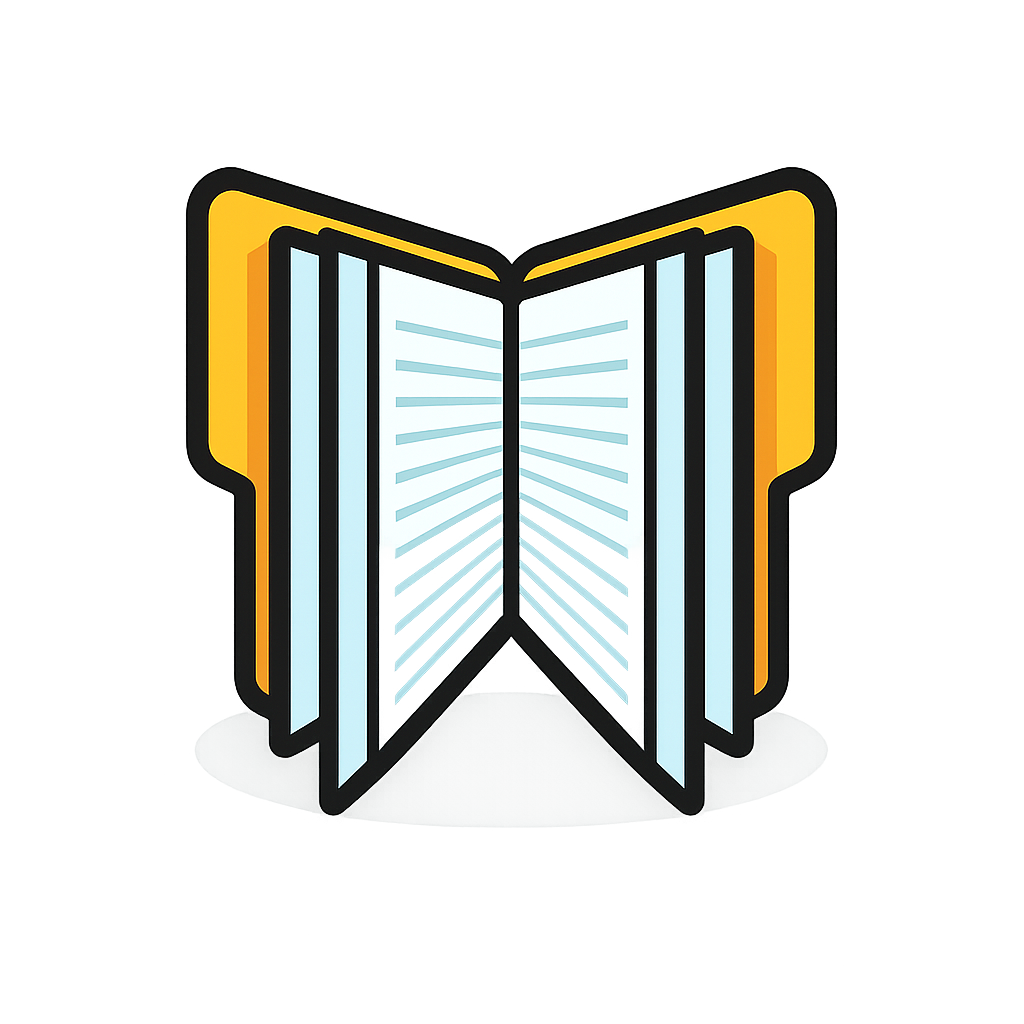
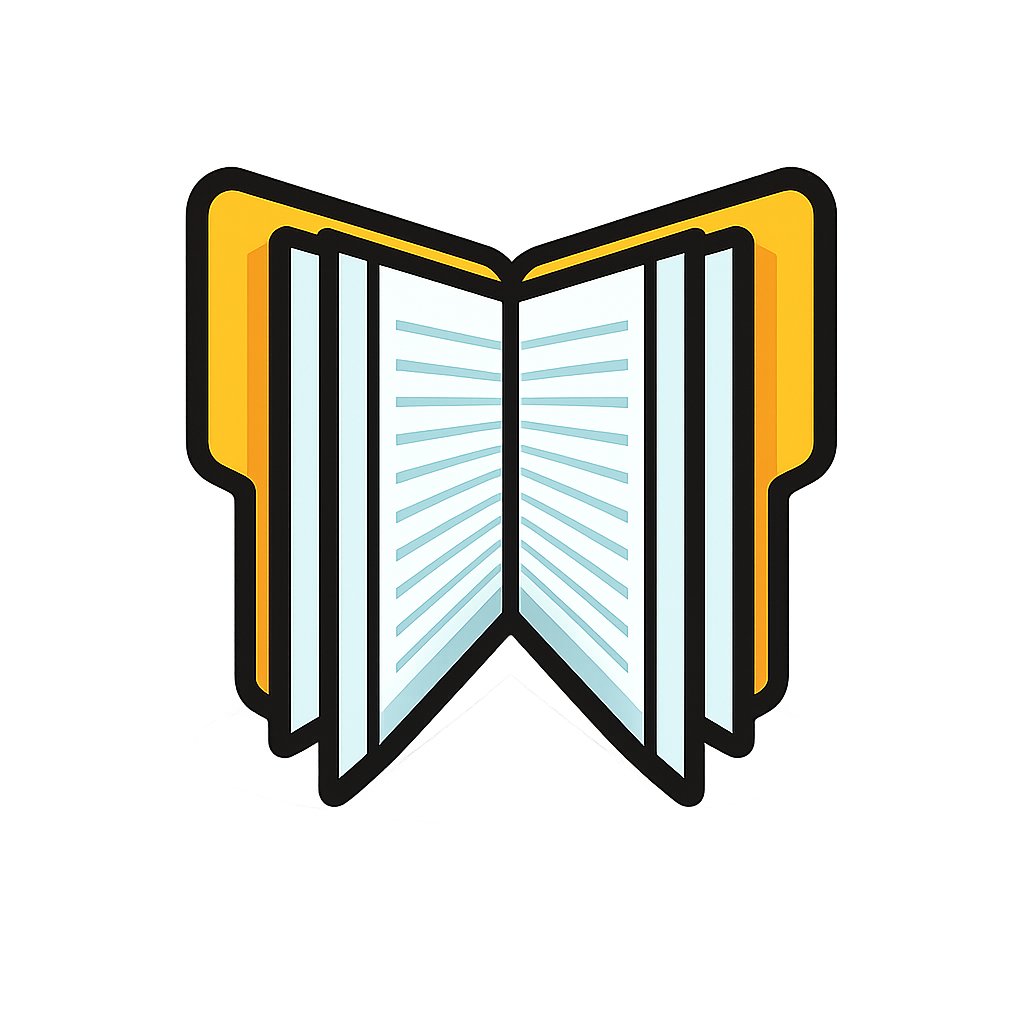
updated the code..

diff --git a/lib/core/utils/text_sanitizer.dart b/lib/core/utils/text_sanitizer.dart
@@ -1,0 +1,45 @@
+class TextSanitizer {
+  static const _map = <int, String>{
+    0x2013: '-',    // – en dash
+    0x2014: '--',   // — em dash
+    0x2018: "'",    // ' left single quote
+    0x2019: "'",    // ' right single quote
+    0x201C: '"',    // " left double quote
+    0x201D: '"',    // " right double quote
+    0x2022: '*',    // • bullet
+    0x2190: '<-',   // ← left arrow
+    0x2192: '->',   // → right arrow
+    0x2194: '<->',  // ↔ left-right arrow
+    0x21D2: '=>',   // ⇒ right double arrow
+    0x2248: '~=',   // ≈ almost equal
+    0x2260: '!=',   // ≠ not equal
+    0x2500: '-',    // ─ box draw horizontal
+    0x2502: '|',    // │ box draw vertical
+    0x250C: '+',    // ┌ box draw down-right
+    0x2510: '+',    // ┐ box draw down-left
+    0x2514: '+',    // └ box draw up-right
+    0x2518: '+',    // ┘ box draw up-left
+    0x251C: '+',    // ├ box draw vertical-right
+    0x2524: '+',    // ┤ box draw vertical-left
+    0x252C: '+',    // ┬ box draw down-horizontal
+    0x2534: '+',    // ┴ box draw up-horizontal
+    0x253C: '+',    // ┼ box draw cross
+    0x2550: '=',    // ═ box draw double horizontal
+    0x2551: '|',    // ║ box draw double vertical
+    0x2588: '#',    // █ full block
+    0x25A0: '#',    // ■ black square
+    0x25B6: '>',    // ▶ play
+    0x2713: 'v',    // ✓ check
+    0x2714: 'V',    // ✔ heavy check
+    0x2716: 'x',    // ✖ heavy multiply
+    0x2717: 'X',    // ✗ ballot x
+  };
+
+  static String sanitize(String input) {
+    final buf = StringBuffer();
+    for (final rune in input.runes) {
+      buf.write(_map[rune] ?? String.fromCharCode(rune));
+    }
+    return buf.toString();
+  }
+}

diff --git a/lib/screens/settings/settings_screen.dart b/lib/screens/settings/settings_screen.dart
@@ -5,7 +5,6 @@ import '../../core/security/auth_service.dart';
 import '../../core/security/secure_storage_service.dart';
 import '../../app.dart';
 
-final themeModeProvider = StateProvider<ThemeMode>((ref) => ThemeMode.system);
 final biometricEnabledProvider = StateProvider<bool>((ref) => true);
 
 class SettingsScreen extends ConsumerStatefulWidget {
@@ -101,12 +100,15 @@ class _SettingsScreenState extends ConsumerState<SettingsScreen> {
           _buildSectionHeader('Appearance', Icons.palette_outlined, scheme),
           Card(
             child: Column(
+              crossAxisAlignment: CrossAxisAlignment.start,
               children: [
-                ListTile(
-                  leading: const Icon(Icons.brightness_6),
-                  title: const Text('Theme'),
-                  subtitle: Text(_themeModeName(themeMode)),
-                  trailing: SegmentedButton<ThemeMode>(
+                const ListTile(
+                  leading: Icon(Icons.brightness_6),
+                  title: Text('Theme'),
+                ),
+                Padding(
+                  padding: const EdgeInsets.fromLTRB(16, 0, 16, 16),
+                  child: SegmentedButton<ThemeMode>(
                     segments: const [
                       ButtonSegment(value: ThemeMode.system, label: Text('System')),
                       ButtonSegment(value: ThemeMode.light, label: Text('Light')),
@@ -157,17 +159,17 @@ class _SettingsScreenState extends ConsumerState<SettingsScreen> {
           ),
           const SizedBox(height: 24),
           _buildSectionHeader('About', Icons.info_outline, scheme),
-          Card(
+          const Card(
             child: Column(
               crossAxisAlignment: CrossAxisAlignment.start,
               children: [
-                const ListTile(
+                ListTile(
                   leading: Icon(Icons.info),
                   title: Text('MD to PDF'),
                   subtitle: Text('Version 1.0.0'),
                 ),
-                const Divider(height: 1, indent: 16, endIndent: 16),
-                const ListTile(
+                Divider(height: 1, indent: 16, endIndent: 16),
+                ListTile(
                   leading: Icon(Icons.description),
                   title: Text('Description'),
                   subtitle: Text(
@@ -201,11 +203,4 @@ class _SettingsScreenState extends ConsumerState<SettingsScreen> {
     );
   }
 
-  String _themeModeName(ThemeMode mode) {
-    switch (mode) {
-      case ThemeMode.system: return 'System';
-      case ThemeMode.light: return 'Light';
-      case ThemeMode.dark: return 'Dark';
-    }
-  }
 }

diff --git a/lib/core/utils/markdown_converter.dart b/lib/core/utils/markdown_converter.dart
@@ -1,4 +1,6 @@
 import 'dart:io';
+import 'dart:typed_data';
+import 'package:flutter/services.dart' show rootBundle;
 import 'package:markdown/markdown.dart' as md;
 import 'package:pdf/pdf.dart';
 import 'package:pdf/widgets.dart' as pw;
@@ -19,6 +21,25 @@ class MarkdownConverter {
       extensionSet: md.ExtensionSet.gitHubFlavored,
     ).parseLines(markdownContent.split('\n'));
 
+    print('DEBUG: loading fonts...');
+    ByteData regularData, boldData, italicData, boldItalicData, fallbackData;
+    try {
+      regularData = await rootBundle.load('assets/fonts/NotoSans-Regular.ttf');
+      boldData = await rootBundle.load('assets/fonts/NotoSans-Bold.ttf');
+      italicData = await rootBundle.load('assets/fonts/NotoSans-Italic.ttf');
+      boldItalicData = await rootBundle.load('assets/fonts/NotoSans-BoldItalic.ttf');
+      fallbackData = await rootBundle.load('assets/fonts/NotoSansMono-Regular.ttf');
+      print('DEBUG: all fonts loaded OK');
+    } catch (e) {
+      print('DEBUG: FONT LOAD FAILED: $e');
+      rethrow;
+    }
+    final regularFont = pw.Font.ttf(regularData);
+    final boldFont = pw.Font.ttf(boldData);
+    final italicFont = pw.Font.ttf(italicData);
+    final boldItalicFont = pw.Font.ttf(boldItalicData);
+    final fallbackFont = pw.Font.ttf(fallbackData);
+
     final pdf = pw.Document(
       author: 'MD to PDF App',
       creator: 'MD to PDF',
@@ -29,6 +50,13 @@ class MarkdownConverter {
       pw.MultiPage(
         pageFormat: PdfPageFormat.a4,
         margin: const pw.EdgeInsets.all(40),
+        theme: pw.ThemeData.withFont(
+          base: regularFont,
+          bold: boldFont,
+          italic: italicFont,
+          boldItalic: boldItalicFont,
+          fontFallback: [fallbackFont, regularFont, boldFont],
+        ),
         build: (context) => _buildPdfWidgets(nodes, markdownContent),
       ),
     );

diff --git a/lib/app.dart b/lib/app.dart
@@ -1,3 +1,4 @@
+import 'dart:async';
 import 'package:flutter/material.dart';
 import 'package:flutter_riverpod/flutter_riverpod.dart';
 import 'package:shared_preferences/shared_preferences.dart';
@@ -21,6 +22,7 @@ class MdToPdfApp extends ConsumerStatefulWidget {
 
 class _MdToPdfAppState extends ConsumerState<MdToPdfApp>
     with WidgetsBindingObserver {
+  Timer? _lockTimer;
 
   @override
   void initState() {
@@ -32,6 +34,7 @@ class _MdToPdfAppState extends ConsumerState<MdToPdfApp>
 
   @override
   void dispose() {
+    _lockTimer?.cancel();
     WidgetsBinding.instance.removeObserver(this);
     super.dispose();
   }
@@ -45,9 +48,15 @@ class _MdToPdfAppState extends ConsumerState<MdToPdfApp>
 
   @override
   void didChangeAppLifecycleState(AppLifecycleState state) {
-    if (state == AppLifecycleState.paused ||
-        state == AppLifecycleState.inactive ||
-        state == AppLifecycleState.detached) {
+    if (state == AppLifecycleState.paused) {
+      _lockTimer = Timer(const Duration(seconds: 15), () {
+        ref.read(isAuthenticatedProvider.notifier).state = false;
+      });
+    } else if (state == AppLifecycleState.resumed) {
+      _lockTimer?.cancel();
+      _lockTimer = null;
+    } else if (state == AppLifecycleState.detached) {
+      _lockTimer?.cancel();
       ref.read(isAuthenticatedProvider.notifier).state = false;
     }
   }

diff --git a/lib/screens/auth/lock_screen.dart b/lib/screens/auth/lock_screen.dart
@@ -1,6 +1,7 @@
 import 'package:flutter/material.dart';
 import 'package:flutter_riverpod/flutter_riverpod.dart';
 import 'package:flutter_animate/flutter_animate.dart';
+import 'package:shared_preferences/shared_preferences.dart';
 import '../../core/security/auth_service.dart';
 import '../../app.dart';
 
@@ -27,12 +28,14 @@ class _LockScreenState extends ConsumerState<LockScreen> {
   Future<void> _init() async {
     final biometricAvailable = await _authService.isBiometricAvailable();
     final lockout = await _authService.getLockoutRemaining();
+    final prefs = await SharedPreferences.getInstance();
+    final biometricEnabled = prefs.getBool('biometric_enabled') ?? true;
     if (!mounted) return;
     setState(() {
       _biometricAvailable = biometricAvailable;
       _lockoutRemaining = lockout;
     });
-    if (biometricAvailable && lockout == null) {
+    if (biometricAvailable && biometricEnabled && lockout == null) {
       _tryBiometric();
     }
   }